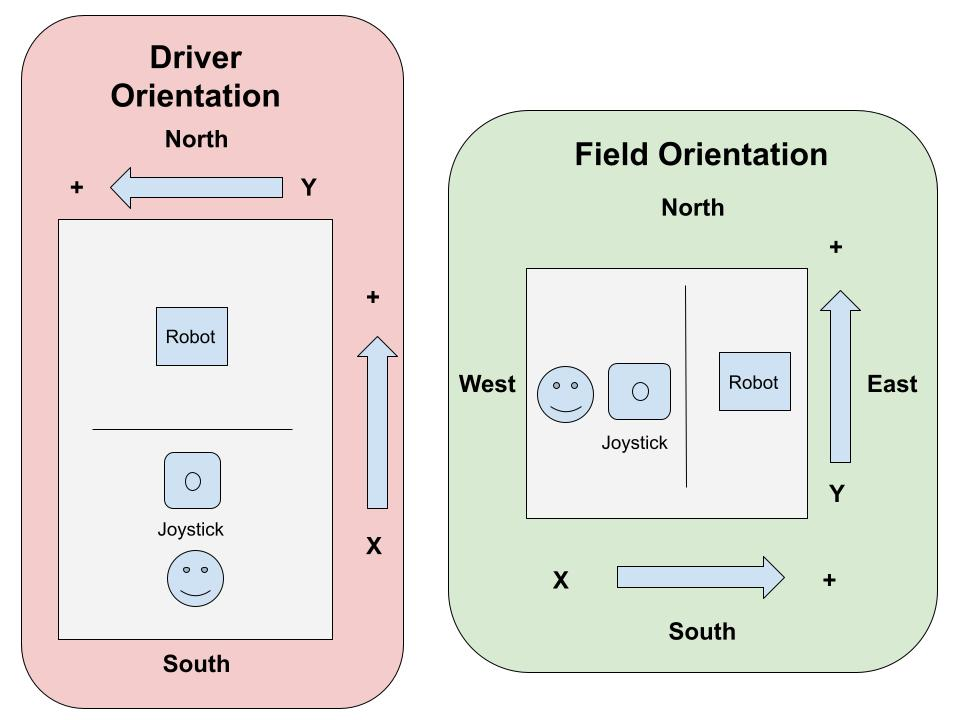
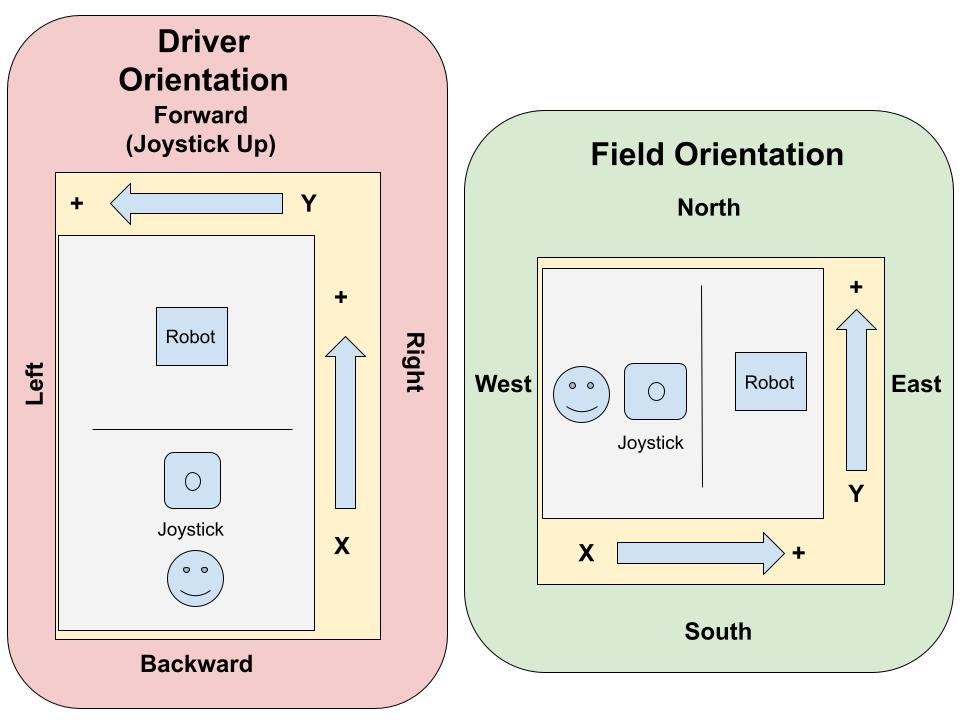
docs

diff --git a/docs/season-plan.md b/docs/season-plan.md
@@ -1,24 +1,29 @@
+# Season Plan
+
 The goals of the controls team (programming) are
 
 1. to write code that allows our robot to become world champion, and
 2. to have fun and learn valuable skills and knowledge.
 
-# Controls Team (Student Wizards)
+# Controls Team
+## Student Programmers
 
  - Gabe -- Vision Point Person
  - Jack E. -- Autos Point Person
  - Ivan -- Robot Systems Point Person
+ - Ely -- Tools Point Person
 
-# Controls Team (Mentor Wizards)
+## Mentors
 
  - Dennis (Alumni Mentor)
  - Ben (Alumni Parent Mentor)
  - John (Parent Mentor)
  - Fred (Parent Mentor)
 
-# Core Competencies of Wizards
+# Controls Exams
+## Core Competencies
 
-We will use wizardry exams to ensure that students learn the knowledge and skills necessary to control robots. By the end of the season, every level 4 wizard will know how to do the following:
+We will use controls exams to ensure that students learn the knowledge and skills necessary to control robots. By the end of the season, every programmer will know how to do the following:
 
 - Create a subsystem with one sensor and one actuator.
 - Create a default command to run the subsystem based on operator input.
@@ -32,22 +37,21 @@ We will use wizardry exams to ensure that students learn the knowledge and skill
 - Adjust the direction the wheels on the drive train point and spin.
 - Deploy code to the robot.
 
-Passive coders will learn terminology, observe team practices, and expand their skills and knowledge so that in future seasons they can become wizards if they want.
+Operators and tuners will learn terminology, observe team practices, and expand their skills and knowledge so that in future seasons they can become programmers if they want.
 
 # Robot Hardware
 
-In years past, the team has built two robots: a practice bot and a competition bot. This year the team will build only one robot. But, we already have one robot to practice with now: the chassis bot. (Last year's robot is being disassembled for parts.) The chassis bot uses differential swerve drive (DSD) modules to rotate and translate the robot in the field. We expect the competition bot will also use DSD modules.
+In years past, the team has built two robots: a practice bot and a competition bot. This year the team will build only one robot. But, we already have one robot to practice with now: the pizza bot. (Last year's robot is being disassembled for parts.) The pizza bot uses differential swerve drive (DSD) modules to rotate and translate the robot in the field. The competition bot also uses DSD modules.
 
 We will use our practice bot to develop code to move around the field during autonomous and to give the drive team practice driving DSD robots. The drive mechanics of the competition bot will be different than the chassis bot due to differences in mass, but the team can add ballast to the chassis bot to compensate.
 
-If the team is unable to get DSD working reliably, the back up plan is tank drive. We are assuming there is a high likelihood that our comp bot drive mechanism will be DSD so we are starting with swerve drive base code.
+If the team had been unable to get DSD working reliably, the back up plan was tank drive. We are assumed there was a high likelihood that our comp bot drive mechanism would be DSD so we started with swerve drive base code.
 
 # Project Management Tools
 
 We have started writing code in the 2022-robot repo on GitHub at [https://github.com/frc5687/2022-robot](https://github.com/frc5687/2022-robot)
 
-We are using [Good Day](https://www.goodday.work/p/lFrsVp) in combination with GitHub for task management. This overall project plan is kept on Good Day at [https://www.goodday.work/n/m1k9B3](https://www.goodday.work/n/m1k9B3)
-
+We are using GitHub for task management and issue tracking.
 # Season Milestones
 
 Mentors will define controls milestones to ensure we have a robot that works for all the students on the team. Our prime objective is to have high-quality code ready to deploy on hardware quickly enough so that the team can practice before events and compete successfully at events. Our secondary objective is to provide opportunities for student coders to learn, develop good work habits, and gain valuable management and coding experience that will help them achieve life goals.
@@ -61,6 +65,8 @@ See [ROADMAP](ROADMAP.md) for milestones.
 See [autos](autos.md).
 
 # Notes
+
+![Driving Coordinate System](driving-coordinate-system.jpg)
 
 Point People (Students):
 Control Systems (Ivan)

diff --git a/docs/Specifications.md b/docs/Specifications.md
@@ -4,72 +4,77 @@ Why do we write out our functional specifications? So no one says two days befor
 
 ## Will Do / Can Do Table
 
-As we write our specification and code we will fill out this table.
+As of February 25, 2022.
 
-Category | Specification | Will Do | Chassis Can Do | Comp Can Do
+Category | Specification | Will Do | Pizza Can Do | Comp Can Do
 ---------|---------------|---------|----------------|------------
-Move | Move responding to remote human manual control | YES | NO | NO
-Move | Translate and rotate at the same time | YES | NO | NO
-Shoot | Shoot cargo into high goal | YES | NO | NO
+Move | Move responding to remote human manual control | YES | YES | YES
+Move | Translate and rotate at the same time | YES | YES | YES
+Shoot | Shoot cargo into high goal | YES | NO | YES
 Shoot | Shoot and Move | NO | NO | NO
 Shoot | Check color using color sensor | YES | NO | NO 
 Shoot | Eject opponent cargo at low power| YES | NO | NO
-Auto | Complete an autonomous routine, scoring one to four cargo | YES | NO | NO
+Auto | Complete an autonomous routine | YES | YES | YES
+Auto | Zero Ball Auto from p3  | YES | NO | NO
+Auto | Zero Ball Auto, from p1, p2, p3, p4 | YES | NO | NO
+Auto | One Ball Auto, from p1, p2, p3, p4 | YES | NO | NO
+Auto | Two Ball Auto, from p1, p2, p4 | YES | NO | NO
+Auto | Three Ball Auto, from p1, p2 | YES | NO | NO
+Auto | Four Ball Auto, from p1 | YES | NO | NO
+Auto | Five Ball Auto, from p1 | YES | NO | NO
 Climb | Climb to Top Bar | YES | NO | NO
 V-SLAM | Localize Ourself on the field | YES | NO | NO
 Fly | Levitate in place | NO | NO | NO 
 
-
-Robot actions are initiated by operator input i.e. button press.
 # Categories
 
   ## Move
   
-    - Translate left, right, up, down.
-    - Rotate.
+  - Translate left, right, up, down.
+  - Rotate.
     
   ## Shoot
   Ideal shoot anywhere on field.
   
-    - Check if arm is lowered & if not lowered, lower arm.
-    - Check if cargo is loaded & check cargo color.
-    - If empty, load cargo & check cargo color.
+  - Check if arm is lowered & if not lowered, lower arm.
+  - Check if cargo is loaded & check cargo color.
+  - If empty, load cargo & check cargo color.
     
-    - If wrong cargo color, set springs to low strength and eject cargo.
+  - If wrong cargo color, set springs to low strength and eject cargo.
     
-    - Look for target using vision system.
-    - Center shooter with target.
-    - Determine distance to target.
-    - Adjust spring tension to achieve correct parabola.
-    - Release pin to fire cargo.
-    - Pull arm down for reloading.
+  - Look for target using vision system.
+  - Center shooter with target.
+  - Determine distance to target.
+  - Adjust spring tension to achieve correct parabola.
+  - Release pin to fire cargo.
+  - Pull arm down for reloading.
     
   ## Intake
   
-    - Put intake out / release intake.
-    - Intake balls by rotating rollers.
-    - Pull intake in / retract intake.  
+  - Put intake out / release intake.
+  - Intake balls by rotating rollers.
+  - Pull intake in / retract intake.  
   ## Display Information
-    - Climbing = Fun pattern.  
-    - Shooting fail = red flashing (we didn't shoot the ball).
-    - Shooting success = Yellow flashing light(we shot the ball).
-    - Intake = purple patterns. 
-    - If centered with target = green flashing.
+  - Climbing = Fun pattern.  
+  - Shooting fail = red flashing (we didn't shoot the ball).
+  - Shooting success = Yellow flashing light(we shot the ball).
+  - Intake = purple patterns. 
+  - If centered with target = green flashing.
   
   ## Climb
   Start climbing at 45 seconds or more.
   
-    - Drive to hangar.
-    - Set up under mid bar.
-    - Raise left arm.
-    - Raise off of ground.
-    - Raise right arm and grab high bar.
-    - Pivot center of mass to under high bar.
-    - Release left arm and retract.
-    - Raise robot higher.
-    - Pivot left arm for traversal rung.
-    - Extend left arm.
-    - Grab traversal rung with left arm.
-    - Pivot center of mass under traversal rung.
-    - Release right arm.
+  - Drive to hangar.
+  - Set up under mid bar.
+  - Raise left arm.
+  - Raise off of ground.
+  - Raise right arm and grab high bar.
+  - Pivot center of mass to under high bar.
+  - Release left arm and retract.
+  - Raise robot higher.
+  - Pivot left arm for traversal rung.
+  - Extend left arm.
+  - Grab traversal rung with left arm.
+  - Pivot center of mass under traversal rung.
+  - Release right arm.
   

diff --git a/docs/ROADMAP.md b/docs/ROADMAP.md
@@ -1,3 +1,7 @@
+# ROADMAP
+
+The team had a hard time understanding and meeting deadlines.  Something to work on for next season is project management skills.
+
 This season we will have a pizza bot to program while the team is building the competition bot.  We're asking the mechies to do a few things to the pizza bot:
 
 - Fasten everything down so we can drive it fast without breaking it.

diff --git a/docs/automation.md b/docs/automation.md
@@ -1,4 +1,6 @@
-Automation is similar to autonomous operation, but occurs during the teleoperated period. The goals of automation are to
+# Automation
+
+Automation is similar to autonomous operation, but occurs during the teleoperating mode. The goals of automation are to
 
 1. reduce the load on the human driver and operator,
 2. improve robot capabilities, and
